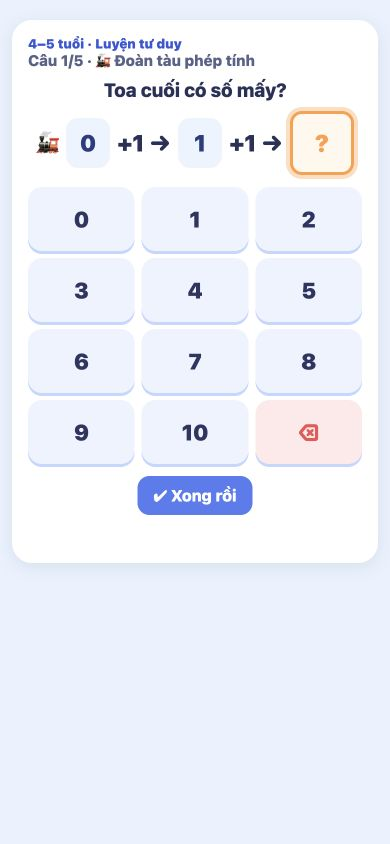
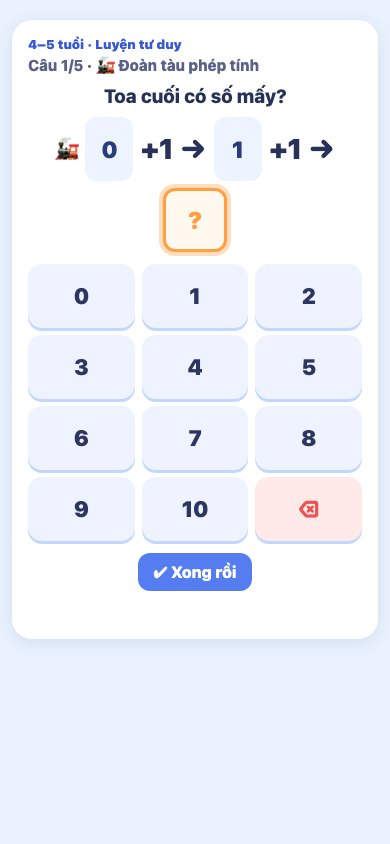
Address Tu Duy level one G2 review

diff --git a/shared/learning/www/tuduy/tuduy-ui.js b/shared/learning/www/tuduy/tuduy-ui.js
@@ -110,19 +110,19 @@
   }
 
   function renderLevel1(item) {
-    const v = item.visual, dots = (count, icon) => `<span class="td-l1-dots" aria-label="${count} hình">${Array.from({ length: count }, () => `<span>${esc(icon)}</span>`).join('')}</span>`;
+    const v = item.visual, dots = (count, icon) => `<span class="td-l1-dots" style="--td-l1-columns:${Math.min(count, 5)}" aria-label="${count} hình">${Array.from({ length: count }, () => `<span>${esc(icon)}</span>`).join('')}</span>`;
     const answer = () => `<div class="td-l1-answer">${blankBox(item.blanks[0].id)}</div>`;
     if (v.kind === 'l1Shapes') return dots(v.count, v.icon) + answer();
     if (v.kind === 'l1Compare') return `<div class="td-l1-groups"><div><b>Trái</b>${dots(v.left, v.icon)}</div><div><b>Phải</b>${dots(v.right, v.icon)}</div></div>`;
-    if (v.kind === 'l1Order') return `<div class="td-l1-row">${v.values.map((n) => `<span class="td-l1-number">${n == null ? '?' : n}</span>`).join('<span>→</span>')}</div>${dots(v.dots, '●')}`;
-    if (v.kind === 'l1Neighbor') return `<div class="td-l1-row">${v.direction === 'before' ? `<span class="td-l1-number">?</span><span>←</span><span class="td-l1-number">${v.number}</span>` : `<span class="td-l1-number">${v.number}</span><span>→</span><span class="td-l1-number">?</span>`}</div>${dots(v.number, '●')}${answer()}`;
+    if (v.kind === 'l1Order') return `<div class="td-l1-row">${v.values.map((n) => `<span class="td-l1-number">${n == null ? '?' : n}</span>`).join('<span class="td-l1-arrow">→</span>')}</div>${dots(v.dots, '●')}`;
+    if (v.kind === 'l1Neighbor') return `<div class="td-l1-row">${v.direction === 'before' ? `<span class="td-l1-number">?</span><span class="td-l1-arrow">←</span><span class="td-l1-number">${v.number}</span>` : `<span class="td-l1-number">${v.number}</span><span class="td-l1-arrow">→</span><span class="td-l1-number">?</span>`}</div>${dots(v.number, '●')}${answer()}`;
     if (v.kind === 'l1Sequence') return `<div class="td-l1-row">${v.values.map((n) => `<span class="td-l1-number">${n == null ? '?' : n}</span>`).join('')}</div>${answer()}`;
     if (v.kind === 'l1Pattern') return `<div class="td-l1-row">${v.shown.map((s) => `<span class="td-l1-symbol">${esc(s)}</span>`).join('')}<span class="td-l1-symbol">?</span></div>`;
     if (v.kind === 'l1Odd') return `<div class="td-l1-row">${v.pictures.map((s, i) => `<button class="td-l1-symbol td-choice" data-choice="${i}" aria-label="Hình ${i + 1}">${esc(s)}<small>${i + 1}</small></button>`).join('')}</div>`;
     if (v.kind === 'l1Position') return `<div class="td-l1-row${v.vertical ? ' vertical' : ''}">${v.pictures.map((s, i) => `<button class="td-l1-symbol td-choice" data-choice="${i}" aria-label="Con ${i + 1}">${esc(s)}<small>${i + 1}</small></button>`).join('')}</div>`;
     if (v.kind === 'l1Inside') return `<div class="td-l1-inside"><div class="td-l1-circle">${dots(v.inside, v.icon)}</div>${dots(v.outside, v.icon)}</div>${answer()}`;
-    if (v.kind === 'l1Match') return `<div class="td-l1-match">${v.pairs.map((pair) => `<div>${dots(pair.count, '●')}<span>↔</span>${pair.number == null ? blankBox(item.blanks[0].id) : `<span class="td-l1-number">${pair.number}</span>`}</div>`).join('')}</div>`;
-    if (v.kind === 'l1Chain') return `<div class="td-l1-row"><span>🚂</span>${v.values.map((n, i) => `${i ? `<span>+${v.steps[i - 1]} →</span>` : ''}${n == null ? blankBox(item.blanks[0].id) : `<span class="td-l1-number">${n}</span>`}`).join('')}</div>`;
+    if (v.kind === 'l1Match') return `<div class="td-l1-match">${v.pairs.map((pair) => `<div>${dots(pair.count, '●')}<span class="td-l1-arrow">↔</span>${pair.number == null ? blankBox(item.blanks[0].id) : `<span class="td-l1-number">${pair.number}</span>`}</div>`).join('')}</div>`;
+    if (v.kind === 'l1Chain') return `<div class="td-l1-row"><span>🚂</span>${v.values.map((n, i) => `${i ? `<span class="td-l1-arrow">+${v.steps[i - 1]} →</span>` : ''}${n == null ? blankBox(item.blanks[0].id) : `<span class="td-l1-number">${n}</span>`}`).join('')}</div>`;
     if (v.kind === 'l1Balance') return `<div class="td-l1-row">${dots(v.a, v.icon)}<span>+</span>${dots(v.b, v.icon)}<span>=</span>${blankBox(item.blanks[0].id)}</div>`;
     if (v.kind === 'l1Latin') return `<div class="td-l1-latin" role="group" aria-label="Bảng ba hàng ba cột">${v.cells.map((s) => `<span>${s == null ? '?' : esc(s)}</span>`).join('')}</div>`;
     return '';
@@ -362,6 +362,7 @@
     }
     pad.hidden = false;
     pad.classList.add('td-choice-pad');
+    if (item.level === 1 && (item.visual.kind === 'l1Pattern' || item.visual.kind === 'l1Latin')) pad.classList.add('td-l1-picture-pad');
     const labels = item.input === 'sign' ? ['>', '<', '='] : item.choices;
     labels.forEach((choice, i) => {
       const b = document.createElement('button');

diff --git a/shared/learning/www/tuduy/tuduy.css b/shared/learning/www/tuduy/tuduy.css
@@ -178,25 +178,29 @@
 /* Làm quen: large picture targets and wrapping groups at narrow phone widths. */
 #tuduy.td-level1 .td-pick,#tuduy.td-level1 .td-key,#tuduy.td-level1 .td-choice{min-height:64px}
 #tuduy.td-level1 .td-choice-pad .td-key{min-height:80px;font-size:20px}
+#tuduy.td-level1 .td-l1-picture-pad .td-key{font-size:40px}
 #tuduy.td-level1 .td-l1-row .td-choice{min-width:64px;padding:4px}
 #tuduy.td-level1 .td-pad:not(.td-choice-pad){grid-template-columns:repeat(3,minmax(0,1fr))}
 #tuduy.td-level1 .td-blank{min-width:64px;height:64px}
 #tuduy .td-l1-row{display:flex;flex-wrap:wrap;align-items:center;justify-content:center;gap:7px;width:100%;font-size:23px;font-weight:900}
 #tuduy .td-l1-row.vertical{flex-direction:column}
-#tuduy .td-l1-number,#tuduy .td-l1-symbol{display:inline-flex;align-items:center;justify-content:center;flex-direction:column;min-width:44px;min-height:50px;padding:4px;border-radius:12px;background:#edf4ff;color:#293d7e}
-#tuduy .td-l1-symbol{font-size:29px}
+#tuduy .td-l1-number,#tuduy .td-l1-symbol{display:inline-flex;align-items:center;justify-content:center;flex-direction:column;min-width:48px;min-height:64px;padding:4px;border-radius:12px;background:#edf4ff;color:#293d7e}
+#tuduy .td-l1-symbol{font-size:40px;line-height:1.1}
 #tuduy .td-l1-symbol small{font-size:14px;line-height:1;color:#36476d}
-#tuduy .td-l1-dots{display:flex;flex-wrap:wrap;align-items:center;justify-content:center;gap:3px;max-width:100%;font-size:28px;line-height:1.2}
+#tuduy .td-l1-dots{display:grid;grid-template-columns:repeat(var(--td-l1-columns),48px);align-items:center;justify-content:center;gap:2px;max-width:100%}
+#tuduy .td-l1-dots>span{display:grid;place-items:center;width:48px;height:48px;font-size:40px;line-height:1}
+#tuduy .td-l1-arrow{font-size:28px;line-height:1;font-weight:900}
 #tuduy .td-l1-answer{margin-top:6px}
-#tuduy .td-l1-groups{display:grid;grid-template-columns:repeat(2,minmax(0,1fr));gap:8px;width:100%}
+#tuduy .td-l1-groups{display:grid;grid-template-columns:minmax(0,1fr);gap:8px;width:100%}
 #tuduy .td-l1-groups>div{min-width:0;min-height:100px;display:flex;flex-direction:column;align-items:center;justify-content:center;gap:5px;padding:6px;border-radius:14px;background:#edf4ff}
 #tuduy .td-l1-inside{width:100%;display:flex;align-items:center;justify-content:center;gap:12px;flex-wrap:wrap}
-#tuduy .td-l1-circle{width:min(190px,65vw);min-height:150px;display:grid;place-items:center;border:4px solid #7958db;border-radius:50%;padding:20px}
+#tuduy .td-l1-circle{box-sizing:border-box;width:min(264px,100%);min-height:264px;display:grid;place-items:center;border:4px solid #7958db;border-radius:50%;padding:4px}
 #tuduy .td-l1-match{display:grid;gap:8px;width:min(100%,300px)}
-#tuduy .td-l1-match>div{display:grid;grid-template-columns:minmax(0,1fr) 28px 64px;align-items:center;gap:4px;min-height:64px}
-#tuduy .td-l1-match .td-l1-dots{font-size:23px}
+#tuduy .td-l1-match>div{display:grid;grid-template-columns:1fr 64px;align-items:center;justify-items:center;gap:4px;min-height:110px;padding:6px;border-radius:14px;background:#edf4ff}
+#tuduy .td-l1-match .td-l1-dots{grid-column:1/-1}
+#tuduy .td-l1-match .td-l1-arrow{justify-self:end}
 #tuduy .td-l1-latin{display:grid;grid-template-columns:repeat(3,minmax(0,1fr));width:min(255px,100%);gap:4px}
-#tuduy .td-l1-latin span{display:grid;place-items:center;aspect-ratio:1;border:2px solid #7194e8;border-radius:10px;background:#eef4ff;font-size:30px}
+#tuduy .td-l1-latin span{display:grid;place-items:center;aspect-ratio:1;border:2px solid #7194e8;border-radius:10px;background:#eef4ff;font-size:40px}
 
 @keyframes td-shake{0%,100%{transform:translateX(0)}25%{transform:translateX(-5px)}75%{transform:translateX(5px)}}
 @keyframes td-pop{0%{transform:scale(.6)}70%{transform:scale(1.15)}100%{transform:scale(1)}}

diff --git a/shared/learning/www/tuduy/tuduy-level1-core.js b/shared/learning/www/tuduy/tuduy-level1-core.js
@@ -32,8 +32,9 @@
     const symbols = shuffle(rng, ['🔵', '🟠', '🔺', '🟣']).slice(0, 2);
     const rule = pick(rng, type === 'sequence' ? ['AB', 'ABB'] : ['AB', 'AAB', 'ABB']);
     const repeats = rule.split('').map((letter) => symbols[letter === 'A' ? 0 : 1]);
-    const shown = Array.from({ length: 5 }, (_, i) => repeats[i % repeats.length]);
-    const expected = repeats[5 % repeats.length];
+    const shownLength = ri(rng, 4, 6);
+    const shown = Array.from({ length: shownLength }, (_, i) => repeats[i % repeats.length]);
+    const expected = repeats[shownLength % repeats.length];
     return choice(type, 'Hình nào tiếp theo?', { kind: 'l1Pattern', shown, rule }, symbols,
       expected, 'Nhìn xem các hình lặp lại thế nào.', `Hình tiếp theo là ${expected}.`, rng);
   }
@@ -67,7 +68,9 @@
         'Nhìn các chấm và đếm thêm hoặc bớt một.', `${direction === 'after' ? 'Sau' : 'Trước'} ${number} là ${answer}.`);
     },
     sequence(rng) {
-      if (rng() < .5) return pattern(rng, 'sequence');
+      // The first xorshift draw clusters for nearby seeds; use the next draw for the 70/30 split.
+      rng();
+      if (rng() >= .7) return pattern(rng, 'sequence');
       const start = ri(rng, 0, 7), answer = start + 3;
       return numeric('sequence', 'Số nào tiếp theo?',
         { kind: 'l1Sequence', values: [start, start + 1, start + 2, null] }, answer,
@@ -75,19 +78,21 @@
     },
     shapePattern(rng) { return pattern(rng, 'shapePattern'); },
     oddOne(rng) {
-      const one = ri(rng, 0, 3), mode = pick(rng, ['color', 'shape']);
+      const one = ri(rng, 0, 3), mode = pick(rng, ['color', 'shape', 'kind']);
+      const kinds = pick(rng, [['🍎', '🐱'], ['🐱', '🚗']]);
       const pictures = Array.from({ length: 4 }, (_, i) => mode === 'color'
-        ? i === one ? '🟠' : '🔵' : i === one ? '🔷' : '🔵');
+        ? i === one ? '🟠' : '🔵' : mode === 'shape' ? i === one ? '🔷' : '🔵'
+          : i === one ? kinds[1] : kinds[0]);
       return pictureChoice('oddOne', 'Hình nào khác các hình còn lại?', { kind: 'l1Odd', pictures },
-        one, 'Tìm một hình khác màu hoặc dáng.', `Hình ${one + 1} khác các hình kia.`);
+        one, 'Tìm một hình khác màu, dáng hoặc loại.', `Hình ${one + 1} khác các hình kia.`);
     },
     position(rng) {
       const pictures = shuffle(rng, ['🐱', '🐶', '🐰']);
-      const direction = pick(rng, ['trái', 'phải', 'giữa', 'trên', 'dưới']);
-      const index = direction === 'phải' || direction === 'dưới' ? 2 : direction === 'giữa' ? 1 : 0;
+      const direction = pick(rng, ['bên trái', 'bên phải', 'giữa', 'trên cùng', 'dưới cùng']);
+      const index = direction === 'bên phải' || direction === 'dưới cùng' ? 2 : direction === 'giữa' ? 1 : 0;
       return pictureChoice('position', `Con nào ở ${direction}?`,
-        { kind: 'l1Position', pictures, vertical: direction === 'trên' || direction === 'dưới' },
-        index, 'Nhìn vị trí của từng con.', `Con số ${index + 1} ở ${direction}.`);
+        { kind: 'l1Position', pictures, vertical: direction === 'trên cùng' || direction === 'dưới cùng' },
+        index, 'Nhìn vị trí của từng con.', `${pictures[index]} ở ${direction}.`);
     },
     insideOut(rng) {
       const inside = ri(rng, 1, 5), outside = ri(rng, 1, 3), icon = pick(rng, icons);

diff --git a/web/test/tuduy-level1.test.js b/web/test/tuduy-level1.test.js
@@ -51,6 +51,17 @@ test('4–5 page plays five questions per type without external requests or over
         .filter((button) => button.getBoundingClientRect().width < 64 || button.getBoundingClientRect().height < 64)
         .map((button) => `${button.textContent}: ${Math.round(button.getBoundingClientRect().width)}×${Math.round(button.getBoundingClientRect().height)}`));
       assert.deepEqual(tooSmall, [], `${type} targets at ${width}px`);
+      const smallPictures = await page.evaluate(() => [...document.querySelectorAll(
+        '#tdVisual .td-l1-dots>span,#tdVisual .td-l1-symbol,#tdVisual .td-l1-latin span,#tdPad.td-l1-picture-pad .td-key')]
+        .filter((el) => el.getClientRects().length)
+        .filter((el) => Number.parseFloat(getComputedStyle(el).fontSize) < 40 ||
+          el.getBoundingClientRect().width < 48 || el.getBoundingClientRect().height < 48)
+        .map((el) => `${el.textContent}: ${getComputedStyle(el).fontSize}, ${Math.round(el.getBoundingClientRect().width)}×${Math.round(el.getBoundingClientRect().height)}`));
+      assert.deepEqual(smallPictures, [], `${type} pictures at ${width}px`);
+      const smallArrows = await page.evaluate(() => [...document.querySelectorAll('#tdVisual .td-l1-arrow')]
+        .filter((el) => Number.parseFloat(getComputedStyle(el).fontSize) < 28)
+        .map((el) => `${el.textContent}: ${getComputedStyle(el).fontSize}`));
+      assert.deepEqual(smallArrows, [], `${type} arrows at ${width}px`);
       if (width === 320) {
         for (let i = 0; i < 5; i++) {
           assert.match(await page.locator('#tdCount').innerText(), new RegExp(`Câu ${i + 1}/5`));
@@ -66,6 +77,16 @@ test('4–5 page plays five questions per type without external requests or over
       await page.evaluate(() => window.TuDuyUI.open());
     }
   }
+  await page.setViewportSize({ width: 320, height: 640 });
+  await page.evaluate(() => { Math.random = window.TuDuy.mkRng(14336); window.TuDuyUI.start('compare'); });
+  const tenFrame = await page.evaluate(() => {
+    const dots = [...document.querySelectorAll('#tdVisual .td-l1-groups>div:first-child .td-l1-dots>span')];
+    return { count: dots.length, firstRow: dots.slice(0, 5).every((dot) => dot.offsetTop === dots[0].offsetTop),
+      secondRow: dots.slice(5).every((dot) => dot.offsetTop === dots[5].offsetTop),
+      differentRows: dots[5].offsetTop > dots[0].offsetTop, overflow: document.documentElement.scrollWidth - innerWidth };
+  });
+  assert.deepEqual(tenFrame, { count: 10, firstRow: true, secondRow: true, differentRows: true, overflow: 0 });
+  await page.evaluate(() => window.TuDuyUI.open());
   const progress = await page.evaluate(() => JSON.parse(localStorage.getItem('tuduy.web.v1')));
   for (const type of types) {
     assert.equal(progress.stats[`l1:${type}`].level, 1, `${type} promoted out of level 1`);

diff --git a/shared/learning/tests/tuduy-level1.test.js b/shared/learning/tests/tuduy-level1.test.js
@@ -94,3 +94,40 @@ for (const type of expectedTypes) test(`${type} level 1: ${N} independent seeded
     }
   }
 });
+
+test('picture patterns continue with either symbol across 2,000 seeds', () => {
+  const counts = { first: 0, second: 0 };
+  for (let seed = 1; seed <= N; seed++) {
+    const item = T.generate('shapePattern', 1, T.mkRng(seed), { max: 10 });
+    assert(item.visual.shown.length >= 4 && item.visual.shown.length <= 6);
+    const answer = item.choices[item.answer];
+    counts[answer === item.visual.shown[0] ? 'first' : 'second']++;
+  }
+  assert(counts.first >= N * .35 && counts.second >= N * .35, JSON.stringify(counts));
+});
+
+test('position uses natural directions in prompt and explanation', () => {
+  const directions = new Set();
+  for (let seed = 1; seed <= N; seed++) {
+    const item = T.generate('position', 1, T.mkRng(seed), { max: 10 });
+    const direction = item.prompt.replace('Con nào ở ', '').replace('?', '');
+    assert(['bên trái', 'bên phải', 'giữa', 'trên cùng', 'dưới cùng'].includes(direction));
+    assert(item.explain[1].endsWith(`ở ${direction}.`));
+    assert.equal(item.visual.vertical, direction === 'trên cùng' || direction === 'dưới cùng');
+    directions.add(direction);
+  }
+  assert.equal(directions.size, 5);
+});
+
+test('sequence favors counting and odd-one includes a different kind', () => {
+  let counting = 0, picturePattern = 0, kind = 0;
+  for (let seed = 1; seed <= N; seed++) {
+    const sequence = T.generate('sequence', 1, T.mkRng(seed), { max: 10 });
+    if (sequence.visual.kind === 'l1Sequence') counting++;
+    else picturePattern++;
+    const odd = T.generate('oddOne', 1, T.mkRng(seed), { max: 10 });
+    if (odd.visual.pictures.some((picture) => ['🍎', '🐱', '🚗'].includes(picture))) kind++;
+  }
+  assert(counting >= N * .65 && counting <= N * .75, `${counting} counting questions`);
+  assert(picturePattern > 0 && kind > 0, `${picturePattern} picture patterns, ${kind} kinds`);
+});

diff --git a/shared/learning/tests/tuduy-level1-screenshot.html b/shared/learning/tests/tuduy-level1-screenshot.html
@@ -7,7 +7,7 @@
 <link rel="stylesheet" href="../www/tuduy/tuduy.css">
 <style>
 *{box-sizing:border-box}body{margin:0;background:#eaf2ff;color:#283158;font:16px system-ui,sans-serif}
-#tuduy{width:390px;max-width:100%;min-height:844px;margin:auto;padding:12px}
+#tuduy{width:390px;max-width:100%;min-height:100vh;margin:auto;padding:12px}
 .card{background:#fff;border-radius:20px;padding:16px;margin:8px 0;box-shadow:0 4px 18px #273e611c}
 .rbtn{border:0;border-radius:12px;background:#567cf2;color:#fff;padding:10px 16px;font:inherit;font-weight:800}
 .fb{margin-top:8px;min-height:24px}h1{font-size:20px;margin:0 0 6px}.eyebrow{font-weight:900;color:#3858d6;font-size:13px}

diff --git a/docs/tasks/TUDUY_LEVEL1_45_CODEX_REPORT.md b/docs/tasks/TUDUY_LEVEL1_45_CODEX_REPORT.md
@@ -12,7 +12,7 @@ Nhánh `feat/web-app`, trên `f8834f9`. Chưa push, merge hoặc deploy. Chờ C
 
 ## Kiểm tra
 
-- `node --test shared/learning/tests/*.test.js`: **110/110** xanh, gồm 13 × 2.000 seed level 1, kiểm lại đáp án độc lập, biên số, độ dài câu hỏi và whitelist. 96 test cũ vẫn chạy.
+- `node --test shared/learning/tests/*.test.js`: **113/113** xanh, gồm 13 × 2.000 seed level 1, kiểm lại đáp án độc lập, biên số, độ dài câu hỏi và whitelist. 96 test cũ vẫn chạy.
 - So với `f8834f9`, đầu ra level 2/3 **giống hệt JSON** ở 2.000 ca seed (mọi dạng, max 10/20 hợp lệ, extension bật).
 - `npm --prefix web test`: **20/20** xanh. Chromium chơi đủ 5 câu của từng dạng ở 4–5; kiểm 320/360/412px không tràn ngang, đáp án ≥64px và không có request ra ngoài.
 - `env JAVA_HOME=/Library/Java/JavaVirtualMachines/temurin-17.jdk/Contents/Home ./gradlew testDebugUnitTest assembleDebug`: **376/376** unit test Android xanh; build debug thành công.
@@ -39,3 +39,32 @@ Theo mục **Decision** trong task, chỉ assertion visibility cũ ở `tuduy-co
 | Sudoku nhí (`latin`) | ![Sudoku nhí](tuduy-level1-screenshots/latin.jpg) |
 
 Ảnh dùng seed cố định 1729 trong `shared/learning/tests/tuduy-level1-screenshot.html`. G3 trên Pixel do Claude thực hiện sau review.
+
+## Sửa theo G2 review `db0fcca`
+
+- Hình/chấm đếm: ô **48×48px**, font **40px**; nhóm 6–10 xếp tối đa **5 ô/hàng**. Bài so sánh 10 và 8 hình tại 320px: [ảnh kiểm bố cục](tuduy-level1-screenshots/compare-ten-320.jpg), không tràn ngang. Kí hiệu quy luật và Sudoku font 40px; mũi tên font 28px; nút chạm tối thiểu 64px.
+- Quy luật hình hiện 4–6 kí hiệu thay vì luôn 5; qua 2.000 seed, đáp án là kí hiệu đầu **1.108** lần, kí hiệu thứ hai **892** lần. Dãy số chọn bước đếm +1 khoảng 70%, hình khoảng 30%.
+- Vị trí dùng “bên trái”, “bên phải”, “giữa”, “trên cùng”, “dưới cùng” trong câu hỏi và giải thích. Khác loại có thêm nhóm trái cây/con vật hoặc con vật/xe, vẫn đúng một hình khác.
+- Đã xoá `.l1sheet.jpg` ở gốc worktree. File review của Claude và `docs/tasks/g3/` được giữ ngoài commit.
+
+Kiểm tra lại: **113/113** JS shared, **20/20** web, **376/376** Android; `assembleDebug` và `git diff --check` đều đạt. Web test kiểm cỡ hình, mũi tên, vùng chạm, 320/360/412px không tràn; kiểm riêng nhóm 10 hình có đúng hai hàng 5.
+
+Ảnh mới chụp ở viewport **320×640**, dùng full-page cho bài cần cuộn dọc:
+
+| Dạng | Ảnh 320px |
+| --- | --- |
+| Đếm hình | ![Đếm hình 320px](tuduy-level1-screenshots/shapes-320.jpg) |
+| So sánh | ![So sánh 320px](tuduy-level1-screenshots/compare-320.jpg) |
+| Sắp xếp | ![Sắp xếp 320px](tuduy-level1-screenshots/order-320.jpg) |
+| Số liền kề | ![Số liền kề 320px](tuduy-level1-screenshots/neighbor-320.jpg) |
+| Quy luật dãy số | ![Quy luật dãy số 320px](tuduy-level1-screenshots/sequence-320.jpg) |
+| Quy luật hình | ![Quy luật hình 320px](tuduy-level1-screenshots/shapePattern-320.jpg) |
+| Khác loại | ![Khác loại 320px](tuduy-level1-screenshots/oddOne-320.jpg) |
+| Vị trí | ![Vị trí 320px](tuduy-level1-screenshots/position-320.jpg) |
+| Trong và ngoài | ![Trong và ngoài 320px](tuduy-level1-screenshots/insideOut-320.jpg) |
+| Nối cùng kết quả | ![Nối cùng kết quả 320px](tuduy-level1-screenshots/match-320.jpg) |
+| Đoàn tàu phép tính | ![Đoàn tàu phép tính 320px](tuduy-level1-screenshots/chain-320.jpg) |
+| Ô trống cân bằng | ![Ô trống cân bằng 320px](tuduy-level1-screenshots/balance-320.jpg) |
+| Sudoku nhí | ![Sudoku nhí 320px](tuduy-level1-screenshots/latin-320.jpg) |
+
+Ảnh 390×844 trong bảng phía trên cũng đã chụp lại sau khi sửa. Chưa push, merge hoặc deploy; chờ Claude review/G3.
